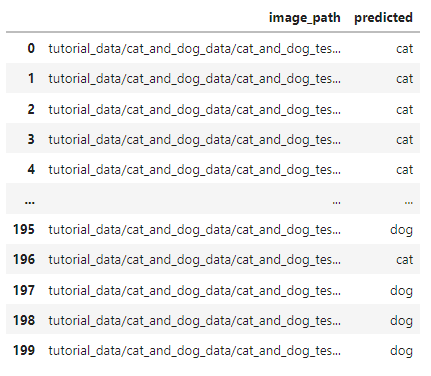
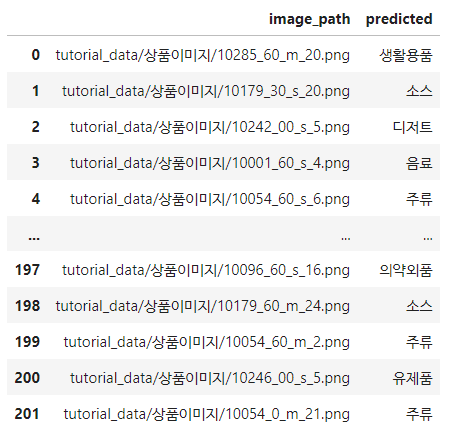
fix: cat_and_dog -> product

diff --git a/docs/tutorials/thanosql_ml/classification/classification_convNext.md b/docs/tutorials/thanosql_ml/classification/classification_convNext.md
@@ -8,7 +8,7 @@
 - 튜토리얼 난이도: ★☆☆☆☆
 - 읽는데 걸리는 시간 : 10분
 - 사용 언어 : [SQL](https://ko.wikipedia.org/wiki/SQL) (100%)
-- 실행 파일 위치 : tutorial/ml/분류 모델 만들기/이미지 분류 모델 만들기.ipynb 
+- 실행 파일 위치 : tutorial/ml/분류 모델 만들기/이미지 분류 모델 만들기.ipynb
 - 참고 문서 : [(캐글) Cat and Dog 데이터 세트](https://www.kaggle.com/datasets/tongpython/cat-and-dog), [A ConvNet for the 2020s](https://arxiv.org/abs/2201.03545)
 - 마지막 수정날짜 : {{ git_revision_date_localized }}
 
@@ -50,7 +50,7 @@ __아래는 ThanoSQL 이미지 분류 모델의 활용 및 예시입니다.__
 ## __0. 데이터 세트 준비__
 
 ThanoSQL의 쿼리 구문을 사용하기 위해서는 [ThanoSQL 워크스페이스 사용](/quick_start/how_to_use_ThanoSQL/#5-thanosql)
-에서 언급된 것처럼 API 토큰을 생성하고 아래의 쿼리를 실행해야 합니다.   
+에서 언급된 것처럼 API 토큰을 생성하고 아래의 쿼리를 실행해야 합니다.
 
 ```sql
 %load_ext thanosql
@@ -60,28 +60,28 @@ ThanoSQL의 쿼리 구문을 사용하기 위해서는 [ThanoSQL 워크스페이
 ```
 ```sql
 %%thanosql
-COPY cat_and_dog_train 
-FROM "tutorial_data/cat_and_dog_data/cat_and_dog_train.csv"
+COPY product_image_train
+FROM "tutorial_data/product_image/product_image_train.csv"
 ```
 ```sql
 %%thanosql
-COPY cat_and_dog_test 
-FROM "tutorial_data/cat_and_dog_data/cat_and_dog_test.csv"
+COPY product_image_test
+FROM "tutorial_data/product_image/product_image_test.csv"
 ```
 
-!!! note "" 
-    COPY [테이블 명] FROM [csv 파일]  
+!!! note ""
+    COPY [테이블 명] FROM [csv 파일]
     - 위의 쿼리는 csv 파일 데이터 세트를 ThanoSQL DB의 테이블로 만들어 줍니다.
 
 
 ## __1. 데이터 세트 확인__
 
-본 튜토리얼을 진행하기 위해 우리는 ThanoSQL DB에 저장되어 있는  <mark style="background-color:#FFEC92 ">cat_and_dog_train</mark> 테이블을 사용합니다. 아래의 쿼리문을 실행하여 테이블 내용을 확인합니다.
+본 튜토리얼을 진행하기 위해 우리는 ThanoSQL DB에 저장되어 있는  <mark style="background-color:#FFEC92 ">product_image_train</mark> 테이블을 사용합니다. 아래의 쿼리문을 실행하여 테이블 내용을 확인합니다.
 
 ```sql
 %%thanosql
 SELECT *
-FROM cat_and_dog_train
+FROM product_image_train
 LIMIT 5
 ```
 ![IMAGE](/img/thanosql_ml/classification/classification_convNext/train_data_limit_5.png)
@@ -92,10 +92,10 @@ LIMIT 5
 
 ```sql
 %%thanosql
-PRINT IMAGE 
+PRINT IMAGE
 AS
-SELECT image_path 
-FROM cat_and_dog_train
+SELECT image_path
+FROM product_image_train
 LIMIT 5
 ```
 
@@ -103,39 +103,39 @@ LIMIT 5
 
 ## __2. 사전 학습된 모델을 사용하여 강아지와 고양이 이미지 분류 결과 예측__
 
-먼저 저희가 미리 준비해둔 모델로 바로 결과를 예측해보겠습니다. 다음 쿼리문을 실행하면, 사전에 학습을 해 둔 고양이, 개 이미지 분류모델, <mark style="background-color:#E9D7FD ">tutorial_image_classification</mark>모델을 사용하여 결과를 예측해볼 수 있습니다.
+먼저 저희가 미리 준비해둔 모델로 바로 결과를 예측해보겠습니다. 다음 쿼리문을 실행하면, 사전에 학습을 해 둔 고양이, 개 이미지 분류모델, <mark style="background-color:#E9D7FD ">tutorial_product_classifier</mark>모델을 사용하여 결과를 예측해볼 수 있습니다.
 
 ```sql
 %%thanosql
-PREDICT USING tutorial_image_classification
-AS 
-SELECT * 
-FROM cat_and_dog_test
+PREDICT USING tutorial_product_classifier
+AS
+SELECT *
+FROM product_image_test
 ```
 
 ![IMAGE](/img/thanosql_ml/classification/classification_convNext/predict_on_test_data_1.png)
 
 ## __3. 이미지 분류 모델 생성__
 
-이전 단계에서 확인한  <mark style="background-color:#FFEC92 ">cat_and_dog_train</mark> 데이터 세트를 사용하여 이미지 분류 모델을 만듭니다. 아래의 쿼리 구문을 실행하여 <mark style="background-color:#E9D7FD ">my_image_classifier</mark>이라는 이름의 모델을 만듭니다.   
-(쿼리 실행 시 예상 소요 시간: 5 min)  
+이전 단계에서 확인한  <mark style="background-color:#FFEC92 ">product_image_train</mark> 데이터 세트를 사용하여 이미지 분류 모델을 만듭니다. 아래의 쿼리 구문을 실행하여 <mark style="background-color:#E9D7FD ">my_product_classifier</mark>이라는 이름의 모델을 만듭니다.
+(쿼리 실행 시 예상 소요 시간: 5 min)
 
 ```sql
 %%thanosql
-BUILD MODEL my_image_classifier
+BUILD MODEL my_product_classifier
 USING ConvNeXt_Tiny
 OPTIONS (
   image_col='image_path',
-  label_col='label',
+  label_col='div_l',
   epochs=1
   )
 AS
 SELECT *
-FROM cat_and_dog_train
+FROM product_image_train
 ```
 
 !!! note "쿼리 세부 정보"
-    - "__BUILD MODEL__" 쿼리 구문을 사용하여 <mark style="background-color:#E9D7FD ">my_image_classifier</mark> 모델을 만들고 학습시킵니다.
+    - "__BUILD MODEL__" 쿼리 구문을 사용하여 <mark style="background-color:#E9D7FD ">my_product_classifier</mark> 모델을 만들고 학습시킵니다.
     - "__USING__" 쿼리 구문을 통해 베이스 모델로 `ConvNeXt_Tiny`를 사용할 것을 명시합니다.
     - "__OPTIONS__" 쿼리 구문을 통해 모델 생성에 사용할 옵션을 지정합니다.
         - "image_col" : 이미지 경로를 담은 컬럼의 이름
@@ -148,23 +148,23 @@ FROM cat_and_dog_train
 
 ## __4. 생성된 모델을 사용하여 강아지와 고양이 이미지 분류 결과 예측__
 
-이전 단계에서 만든 이미지 예측 모델(<mark style="background-color:#FFEC92 ">my_image_classifier</mark>)을 사용해서 특정 이미지(학습에 이용되지 않은 데이터 테이블, <mark style="background-color:#D7D0FF">cat_and_dog_test</mark>)의 목표값을 예측해 봅니다.  아래 쿼리를 수행하고 나면, 예측 결과는 <mark style="background-color:#D7D0FF">predicted</mark> 컬럼에 저장되어 반환됩니다.
+이전 단계에서 만든 이미지 예측 모델(<mark style="background-color:#FFEC92 ">my_product_classifier</mark>)을 사용해서 특정 이미지(학습에 이용되지 않은 데이터 테이블, <mark style="background-color:#D7D0FF">product_image_test</mark>)의 목표값을 예측해 봅니다.  아래 쿼리를 수행하고 나면, 예측 결과는 <mark style="background-color:#D7D0FF">predicted</mark> 컬럼에 저장되어 반환됩니다.
 
 ```sql
 %%thanosql
-PREDICT USING my_image_classifier
+PREDICT USING my_product_classifier
 OPTIONS (
     image_col='image_path'
     )
 AS
 SELECT *
-FROM cat_and_dog_test
+FROM product_image_test
 ```
 
 ![IMAGE](/img/thanosql_ml/classification/classification_convNext/predict_on_test_data_2.png)
 
 !!! note "__쿼리 세부 정보__"
-    - "__PREDICT USING__" 쿼리 구문을 통해 이전 단계에서 만든 <mark style="background-color:#E9D7FD ">my_image_classifier</mark> 모델을 예측에 사용합니다.
+    - "__PREDICT USING__" 쿼리 구문을 통해 이전 단계에서 만든 <mark style="background-color:#E9D7FD ">my_product_classifier</mark> 모델을 예측에 사용합니다.
     - "__OPTIONS__" 쿼리 구문을 통해 예측에 사용할 옵션을 지정합니다.
         - "image_col" : 예측에 사용할 이미지의 경로가 기록되어 있는 컬럼의 이름
 
